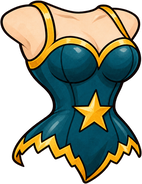
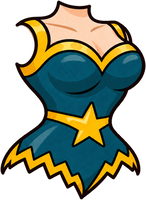
feat: tronco novo da acrobata, no mesmo ângulo da cabeça
- Tronco gerado em 3/4 olhando para a direita, com pescoço e ombros
  estreitos, substituindo o tronco "de frente" que não combinava com a cabeça.
- A cabeça agora é desenhada por cima do pescoço do tronco.
- Ombros e quadris reposicionados sobre o desenho novo; escala do rig
  ajustada para manter a altura da personagem.

diff --git a/docs/personagens-visuais.md b/docs/personagens-visuais.md
@@ -12,7 +12,7 @@ As folhas ilustradas originais (fundo transparente) ficam em `docs/referencias/p
 |---|---|
 | `palhaco_folha.png` | cabeça, cabeça piscando, tronco, sapato e luva fechada do palhaço |
 | `acrobata_folha.png` | cabeça, cabeça piscando e sapato da acrobata |
-| `acrobata_tronco.png` | tronco da acrobata (collant com ombros) |
+| `acrobata_tronco.png` | tronco da acrobata (collant com pescoço, sem braços), gerado no mesmo ângulo 3/4 da cabeça |
 | `luva_pistola.png` | luva segurando a pistola de rolha (compartilhada) |
 
 Os prompts usados para gerar as folhas estão em [personagens-prompts.json](personagens-prompts.json).
@@ -35,7 +35,7 @@ Godot --headless --script res://tools/cut_character_parts.gd
 
 Cada rig (`clown_rig.tscn`, `acrobat_rig.tscn`) define onde cada peça encosta:
 
-- **Cabeça**: o ponto do nó é a base do pescoço; o pescoço fica atrás do decote/gola do tronco.
+- **Cabeça**: o ponto do nó é a base do pescoço. No palhaço o pescoço fica atrás da gola (cabeça desenhada antes do tronco); na acrobata o tronco já tem pescoço e a cabeça é desenhada por cima dele.
 - **Ombros e quadris**: marcadores `ShoulderBack/Front` e `HipBack/Front` sobre o desenho do tronco.
 - **Pernas**: a perna da frente (desenhada por cima) fica à esquerda e a de trás à direita. Como o personagem olha para a direita em 3/4, o bico do sapato da frente passa por cima do calcanhar do sapato de trás.
 - **Luva com pistola**: o ponto do nó é o pulso; o marcador `Muzzle` fica na boca do cano.
